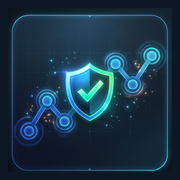
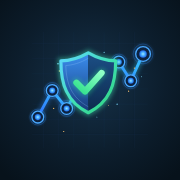
Add files via upload

diff --git a/index.html b/index.html
@@ -10,6 +10,7 @@
 <meta name="apple-mobile-web-app-capable" content="yes">
 <meta name="apple-mobile-web-app-title" content="Value Chain">
 <meta name="apple-mobile-web-app-status-bar-style" content="black-translucent">
+<link rel="icon" type="image/svg+xml" href="icon.svg">
 <link rel="icon" type="image/png" sizes="32x32" href="favicon-32.png">
 <link rel="apple-touch-icon" href="apple-touch-icon.png">
 <link rel="preconnect" href="https://fonts.googleapis.com">
@@ -178,7 +179,7 @@ input[type=range]::-webkit-slider-thumb{-webkit-appearance:none;width:20px;heigh
 input[type=range]::-moz-range-thumb{width:16px;height:16px;border-radius:50%;background:var(--amber);border:3px solid var(--panel);cursor:pointer}
 input[type=range]:disabled{opacity:.35}
 .jigticks{display:flex;justify-content:space-between;font:10px var(--mono);color:var(--dim)}
-.brandimg{width:38px;height:38px;border-radius:9px;display:block;box-shadow:0 0 0 1px var(--line2),0 0 14px color-mix(in srgb,var(--amber) 30%,transparent)}
+.brandimg{width:40px;height:40px;display:block;filter:drop-shadow(0 0 6px #2fa8ff55)}
 .themebtn{display:flex;align-items:center;gap:7px;background:transparent;border:1px solid var(--line2);border-radius:20px;padding:5px 11px 5px 6px;cursor:pointer;font:600 12px var(--cond);letter-spacing:.06em;color:var(--muted);text-transform:uppercase}
 .themebtn i{width:18px;height:18px;border-radius:50%;background:var(--amber);box-shadow:0 0 0 2px var(--panel2)}
 .thmenu{position:absolute;right:18px;top:58px;z-index:60;background:var(--panel);border:1px solid var(--line2);border-radius:10px;padding:12px;box-shadow:0 14px 40px var(--shadow);width:290px}
@@ -208,7 +209,7 @@ input[type=range]:disabled{opacity:.35}
 </head>
 <body>
 <div class="top">
-  <img class="brandimg" src="icon-192.png" alt="">
+  <img class="brandimg" src="icon.svg" alt="">
   <div class="ttl"><small>NOAMUNDI · NRD · WET PLANT</small><b>Quality Value Chain</b></div>
   <div class="sp"></div>
   <span class="netdot" id="netDot"><i></i><span>online</span></span>

diff --git a/sw.js b/sw.js
@@ -1,7 +1,7 @@
 /* Quality Value Chain — offline service worker */
-const VERSION = 'gf-v1.1.0';
+const VERSION = 'gf-v1.1.1';
 const SHELL = ['./', './index.html', './manifest.webmanifest',
-  './icon-192.png', './icon-512.png', './maskable-192.png', './maskable-512.png',
+  './icon.svg', './icon-96.png', './icon-192.png', './icon-512.png', './maskable-192.png', './maskable-512.png',
   './apple-touch-icon.png', './favicon-32.png'];
 
 self.addEventListener('install', e => {
